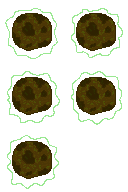
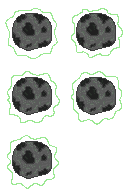
Increased energy regen with convos, updated rock sprites

diff --git a/Adrift/js/hallway.js b/Adrift/js/hallway.js
@@ -71,25 +71,25 @@ var hallwayState = {
 		
 		// Add buttons
 		if(convoIndex1 > 0){
-			abilityBox1 = game.add.sprite(positions[count], 518, 'abilityIcon1');
+			abilityBox1 = game.add.sprite(positions[count], 502, 'abilityIcon1');
 			abilityBox1.fixedToCamera = true;
 			abilityBox1.inputEnabled = true;
 			count++;
 		}
 		if(convoIndex2 > 0){
-			abilityBox2 = game.add.sprite(positions[count], 518, 'abilityIcon2');
+			abilityBox2 = game.add.sprite(positions[count], 502, 'abilityIcon2');
 			abilityBox2.fixedToCamera = true;
 			abilityBox2.inputEnabled = true;
 			count++;
 		}
 		if(convoIndex3 > 0){
-			abilityBox3 = game.add.sprite(positions[count], 518, 'abilityIcon3');
+			abilityBox3 = game.add.sprite(positions[count], 502, 'abilityIcon3');
 			abilityBox3.fixedToCamera = true;
 			abilityBox3.inputEnabled = true;
 			count++;
 		}
 		if(convoIndex4 > 0){
-			abilityBox4 = game.add.sprite(positions[count], 518, 'abilityIcon4');
+			abilityBox4 = game.add.sprite(positions[count], 502, 'abilityIcon4');
 			abilityBox4.fixedToCamera = true;
 			abilityBox4.inputEnabled = true;
 			if(convoIndex4 == 4) abilityBox4.events.onInputDown.add(this.secret, this);
@@ -132,6 +132,9 @@ var hallwayState = {
 		volumeSprite.inputEnabled = true;
 		volumeSprite.fixedToCamera = true;
 		volumeSprite.events.onInputDown.add(changeVolume, this);
+		
+		// Change energy regen rate depending on conversations
+		energyRegen = 0.05 + (0.005 * convoIndex1 * convoIndex1) + (0.005 * convoIndex1 * convoIndex1) + (0.005 * convoIndex2 * convoIndex2) + (0.005 * convoIndex3 * convoIndex3) + (0.005 * convoIndex4 * convoIndex4);
 	},
 	
 	update : function() {
@@ -150,20 +153,20 @@ var hallwayState = {
 		
 		// Show/hide ability info
 		if(convoIndex1 > 0){
-			if(abilityBox1.input.pointerOver() && abilityBox1.cameraOffset.y == 518){tooltipSound.play('',0,sfxVolume); abilityBox1.alpha = 1; game.add.tween(abilityBox1.cameraOffset).to( { y: 502 }, 30, "Linear", true); game.add.tween(abilityText1).to( { alpha: 1 }, 30, "Linear", true);}
-			else if(!abilityBox1.input.pointerOver()){abilityBox1.alpha = 0.5; game.add.tween(abilityBox1.cameraOffset).to( { y: 518 }, 30, "Linear", true); game.add.tween(abilityText1).to( { alpha: 0 }, 30, "Linear", true);}
+			if(abilityBox1.input.pointerOver() && abilityBox1.cameraOffset.y == 502){tooltipSound.play('',0,sfxVolume); abilityBox1.alpha = 1; game.add.tween(abilityBox1.cameraOffset).to( { y: 492 }, 30, "Linear", true); game.add.tween(abilityText1).to( { alpha: 1 }, 30, "Linear", true);}
+			else if(!abilityBox1.input.pointerOver()){abilityBox1.alpha = 0.5; game.add.tween(abilityBox1.cameraOffset).to( { y: 502 }, 30, "Linear", true); game.add.tween(abilityText1).to( { alpha: 0 }, 30, "Linear", true);}
 		}
 		if(convoIndex2 > 0){
-			if(abilityBox2.input.pointerOver() && abilityBox2.cameraOffset.y == 518){tooltipSound.play('',0,sfxVolume); abilityBox2.alpha = 1; game.add.tween(abilityBox2.cameraOffset).to( { y: 502 }, 30, "Linear", true); game.add.tween(abilityText2).to( { alpha: 1 }, 30, "Linear", true);}
-			else if(!abilityBox2.input.pointerOver()){abilityBox2.alpha = 0.5; game.add.tween(abilityBox2.cameraOffset).to( { y: 518 }, 30, "Linear", true); game.add.tween(abilityText2).to( { alpha: 0 }, 30, "Linear", true);}
+			if(abilityBox2.input.pointerOver() && abilityBox2.cameraOffset.y == 502){tooltipSound.play('',0,sfxVolume); abilityBox2.alpha = 1; game.add.tween(abilityBox2.cameraOffset).to( { y: 492 }, 30, "Linear", true); game.add.tween(abilityText2).to( { alpha: 1 }, 30, "Linear", true);}
+			else if(!abilityBox2.input.pointerOver()){abilityBox2.alpha = 0.5; game.add.tween(abilityBox2.cameraOffset).to( { y: 502 }, 30, "Linear", true); game.add.tween(abilityText2).to( { alpha: 0 }, 30, "Linear", true);}
 		}
 		if(convoIndex3 > 0){
-			if(abilityBox3.input.pointerOver() && abilityBox3.cameraOffset.y == 518){tooltipSound.play('',0,sfxVolume); abilityBox3.alpha = 1; game.add.tween(abilityBox3.cameraOffset).to( { y: 502 }, 30, "Linear", true); game.add.tween(abilityText3).to( { alpha: 1 }, 30, "Linear", true);}
-			else if(!abilityBox3.input.pointerOver()){abilityBox3.alpha = 0.5; game.add.tween(abilityBox3.cameraOffset).to( { y: 518 }, 30, "Linear", true); game.add.tween(abilityText3).to( { alpha: 0 }, 30, "Linear", true);}
+			if(abilityBox3.input.pointerOver() && abilityBox3.cameraOffset.y == 502){tooltipSound.play('',0,sfxVolume); abilityBox3.alpha = 1; game.add.tween(abilityBox3.cameraOffset).to( { y: 492 }, 30, "Linear", true); game.add.tween(abilityText3).to( { alpha: 1 }, 30, "Linear", true);}
+			else if(!abilityBox3.input.pointerOver()){abilityBox3.alpha = 0.5; game.add.tween(abilityBox3.cameraOffset).to( { y: 502 }, 30, "Linear", true); game.add.tween(abilityText3).to( { alpha: 0 }, 30, "Linear", true);}
 		}
 		if(convoIndex4 > 0){
-			if(abilityBox4.input.pointerOver() && abilityBox4.cameraOffset.y == 518){tooltipSound.play('',0,sfxVolume); abilityBox4.alpha = 1; game.add.tween(abilityBox4.cameraOffset).to( { y: 502 }, 30, "Linear", true); game.add.tween(abilityText4).to( { alpha: 1 }, 30, "Linear", true);}
-			else if(!abilityBox4.input.pointerOver()){abilityBox4.alpha = 0.5; game.add.tween(abilityBox4.cameraOffset).to( { y: 518 }, 30, "Linear", true); game.add.tween(abilityText4).to( { alpha: 0 }, 30, "Linear", true);}
+			if(abilityBox4.input.pointerOver() && abilityBox4.cameraOffset.y == 502){tooltipSound.play('',0,sfxVolume); abilityBox4.alpha = 1; game.add.tween(abilityBox4.cameraOffset).to( { y: 492 }, 30, "Linear", true); game.add.tween(abilityText4).to( { alpha: 1 }, 30, "Linear", true);}
+			else if(!abilityBox4.input.pointerOver()){abilityBox4.alpha = 0.5; game.add.tween(abilityBox4.cameraOffset).to( { y: 502 }, 30, "Linear", true); game.add.tween(abilityText4).to( { alpha: 0 }, 30, "Linear", true);}
 		}
 		let showBackground = false;
 		if(convoIndex1 > 0 && abilityBox1.input.pointerOver()) showBackground = true;

diff --git a/Adrift/js/D1.js b/Adrift/js/D1.js
@@ -6,11 +6,11 @@ var D1 = {
 		// library of all text for a given "chapter"
 		 DiaA = "Reminds me of the service, being out like this."
 		 DiaB = "Haven’t experienced this crazy of flying since then."
-		 DiaC = "But I have kept up my liquor collection going over the years."
+		 DiaC = "But I have kept my liquor collection going over the years."
 		
-		 DiaA1 = " Hopefully I won't get as many.. souvenirs from this."
+		 DiaA1 = " Hopefully I won't get as many...souvenirs from this."
 		 DiaA2 = " Sorry was that too grim for you?"
-		 DiaA3 = " My comedy is a bit uuhh.. out of practice I guess."
+		 DiaA3 = " My comedy is a bit uuhh...out of practice I guess."
 		
 		 DiaB1 = " At least my leg has auto stabilizers."
 		 DiaB2 = " I won't be falling on anyone when things get shaky."
@@ -18,7 +18,7 @@ var D1 = {
 		
 		 DiaC1 = " At least I don’t have to hide it from my CO anymore."
 		 DiaC2 = " Better get some before I wisen up and down it all."
-		 DiaC3 = " Really takes the edge off of dodging meteors and the uneasy quiet"
+		 DiaC3 = " Really takes the edge off of dodging meteors and the uneasy quiet."
 		
 		choice1 = DiaA
 		choice2 = DiaB

diff --git a/Adrift/js/D3.js b/Adrift/js/D3.js
@@ -10,15 +10,15 @@ var D3 = {
 		
 		 DiaA1 = " Not left on the battlefield, worse than that."
 		 DiaA2 = " I was stuck crippled in the hospital, they never came looking for me."
-		 DiaA3 = " But how can I blame them, look at me I’m a mess."
+		 DiaA3 = " But how can I blame them. Look at me, I’m a mess."
 		
 		 DiaB1 = " 3 months alone in the hospital taught me,"
 		 DiaB2 = " another 10 years without a word from them taught me."
 		 DiaB3 = " People like me get left behind, no one comes looking."
 		
 		 DiaC1 = " My unit didn't want to remember me."
-		 DiaC2 = " I am just a bad memory, I'm not worth it"
-		 DiaC3 = " and this ship could be one too..."
+		 DiaC2 = " I am just a bad memory, I'm not worth it."
+		 DiaC3 = " And this ship could be one too..."
 		
 		choice1 = DiaA
 		choice2 = DiaB

diff --git a/Adrift/js/B4.js b/Adrift/js/B4.js
@@ -13,8 +13,8 @@ var B4 = {
 		 DiaA3 = " But I’m not afraid to follow your lead, captain. I’m proud to have you as my superior."
 		
 		 DiaB1 = " Thankfully that didn't require me to sing to the equipment like Patty."
-		 DiaB2 = " Or drink my weight in whiskey Delson."
-		 DiaB3 = " Who am I to judge? I’m a stubborn old bird who can’t keep her mouth shut"
+		 DiaB2 = " Or drink my weight in whiskey like Delson."
+		 DiaB3 = " Who am I to judge? I’m a stubborn old bird who can’t keep her mouth shut."
 		
 		 DiaC1 = " Apparently calling D4V3 a ‘frakkin’ toaster’ is “insensitive.”"
 		 DiaC2 = " Turns out his uncle was literally a toaster."

diff --git a/Adrift/js/D2.js b/Adrift/js/D2.js
@@ -14,7 +14,7 @@ var D2 = {
 		
 		 DiaB1 = " People forget the painful memories."
 		 DiaB2 = " What’s the point of holding onto something that hurts?"
-		 DiaB3 = " And that's fine... when you aren't that memory."
+		 DiaB3 = " And that's fine...when you aren't that memory."
 		
 		 DiaC1 = " Not like we have much of a choice."
 		 DiaC2 = " So many people need help, I can't put me before them."
@@ -84,7 +84,7 @@ var D2 = {
 	},
 	
 	update: function() {
-		slot2.y = (Acount*38)+12
+		slot2.y = (Acount*42)+12
 		slot3.y = ((Acount+Bcount)*40)+24
 
 		if (Acount+Bcount+Ccount >= 9){

diff --git a/Adrift/js/B2.js b/Adrift/js/B2.js
@@ -14,7 +14,7 @@ var B2 = {
 		
 		 DiaB1 = " I just… well I have a habit of telling people off."
 		 DiaB2 = " I’m not used to working without people to manage."
-		 DiaB3 = " I feel like my potential is being… not wasted, but diminished."
+		 DiaB3 = " I feel like my potential is being...not wasted, but diminished."
 		
 		 DiaC1 = " I'm not getting any younger. That’s clear to me."
 		 DiaC2 = " I don’t want to give up what I believe is my strongest quality."

diff --git a/Adrift/js/B3.js b/Adrift/js/B3.js
@@ -4,7 +4,7 @@ var B3 = {
 	create: function() {
 
 		// library of all text for a given "chapter"
-		 DiaA = "It’s not that I don’t respect your authority, Captain…"
+		 DiaA = "It’s not that I don’t respect your authority, Captain..."
 		 DiaB = "These people need a kick in the ass."
 		 DiaC = "I can do my job, don't worry about that."
 		

diff --git a/Adrift/js/main.js b/Adrift/js/main.js
@@ -354,6 +354,7 @@ function restartGame(){
 	convoIndex4 = 0;
 	cutsceneStatus = 0;
 	energy = 100;
+	energyRegen = 0.05;
 	lastConvo = 0;
 	levelNum = 0;
 	hallStart = 600;
